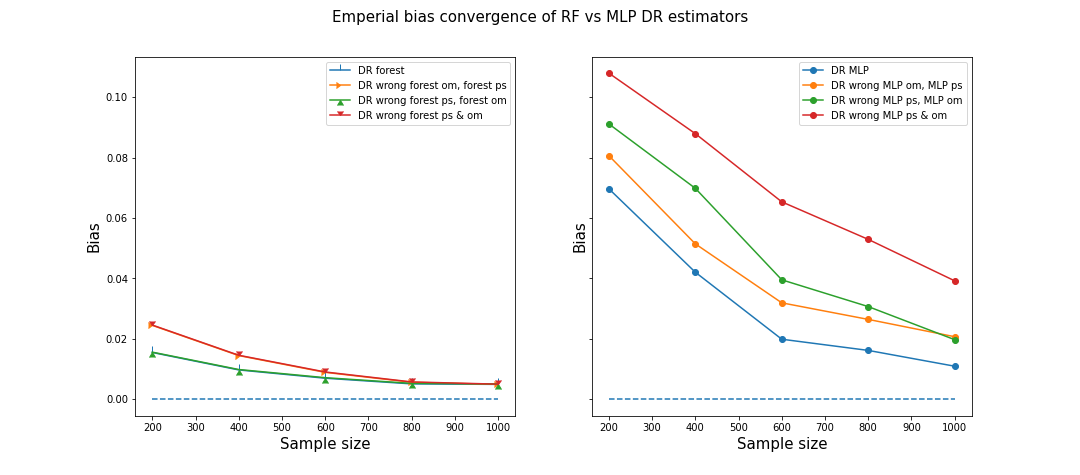
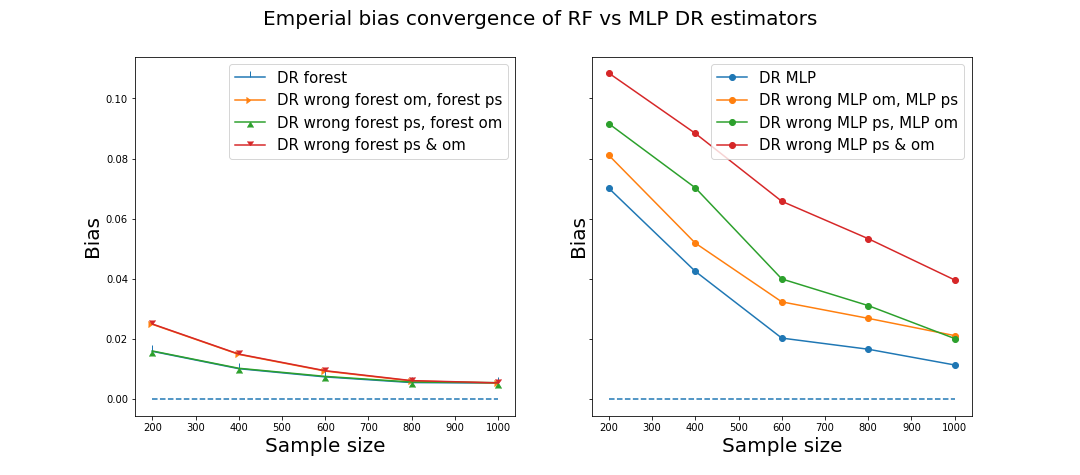
Increasing font of comparison plots

diff --git a/Code/comparison.py b/Code/comparison.py
@@ -93,15 +93,15 @@ for i in numbers:
     ax1.plot(N, bias_RF[i,:], label = labels_RF[i], marker = i)
 for i in numbers:
     ax2.plot(N, bias_MLP[i,:], label = labels_MLP[i], marker = 'o')
-ax1.legend()
-ax2.legend()
+ax1.legend(fontsize = 15)
+ax2.legend(fontsize = 15)
 ax1.hlines(0, N[0], N[-1], linestyles = 'dashed')
 ax2.hlines(0, N[0], N[-1], linestyles = 'dashed')
-ax1.set_xlabel('Sample size', fontsize = 15)
-ax2.set_xlabel('Sample size', fontsize = 15)
-ax1.set_ylabel('Bias', fontsize = 15)
-ax2.set_ylabel('Bias', fontsize = 15)
-fig.suptitle('Emperial bias convergence of RF vs MLP DR estimators', fontsize = 15)
+ax1.set_xlabel('Sample size', fontsize = 20)
+ax2.set_xlabel('Sample size', fontsize = 20)
+ax1.set_ylabel('Bias', fontsize = 20)
+ax2.set_ylabel('Bias', fontsize = 20)
+fig.suptitle('Emperial bias convergence of RF vs MLP DR estimators', fontsize = 20)
 plt.savefig('../figures/biascompare.png')
 plt.show()
 
@@ -111,14 +111,14 @@ for i in numbers:
     ax1.plot(N, np.multiply(np.sqrt(N),bias_RF[i,:]), label = labels_RF[i], marker = i)
 for i in numbers:
     ax2.plot(N, np.multiply(np.sqrt(N),bias_MLP[i,:]), label = labels_MLP[i], marker = 'o')
-ax1.legend()
-ax2.legend()
+ax1.legend(fontsize = 15)
+ax2.legend(fontsize = 15)
 ax1.hlines(0, N[0], N[-1], linestyles = 'dashed')
 ax2.hlines(0, N[0], N[-1], linestyles = 'dashed')
-ax1.set_xlabel('Sample size', fontsize = 15)
-ax2.set_xlabel('Sample size', fontsize = 15)
-ax1.set_ylabel(r'$\sqrt{N}$bias', fontsize = 15)
-ax2.set_ylabel(r'$\sqrt{N}$bias', fontsize = 15)
-fig.suptitle(r'$\sqrt{N}$bias convergence of RF vs MLP DR estimators', fontsize = 15)
+ax1.set_xlabel('Sample size', fontsize = 20)
+ax2.set_xlabel('Sample size', fontsize = 20)
+ax1.set_ylabel(r'$\sqrt{N}$bias', fontsize = 20)
+ax2.set_ylabel(r'$\sqrt{N}$bias', fontsize = 20)
+fig.suptitle(r'$\sqrt{N}$bias convergence of RF vs MLP DR estimators', fontsize = 20)
 plt.savefig('../figures/sqrtncompare.png')
 plt.show()
